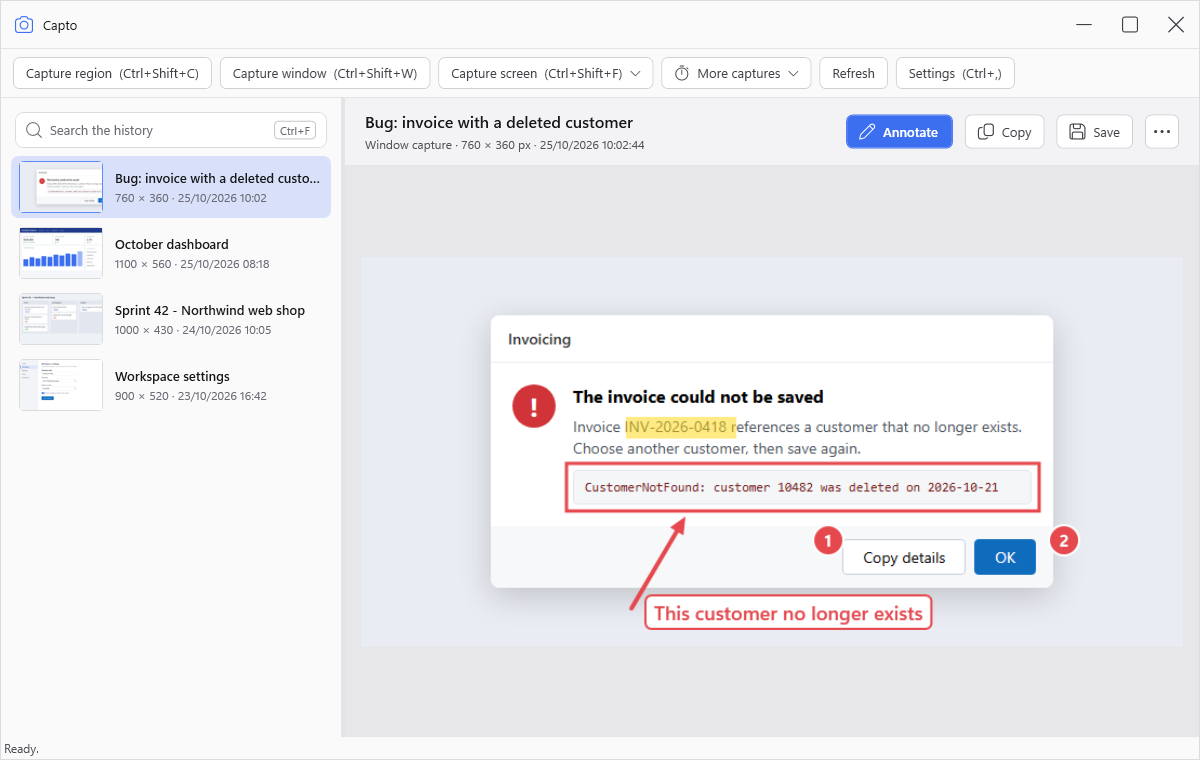
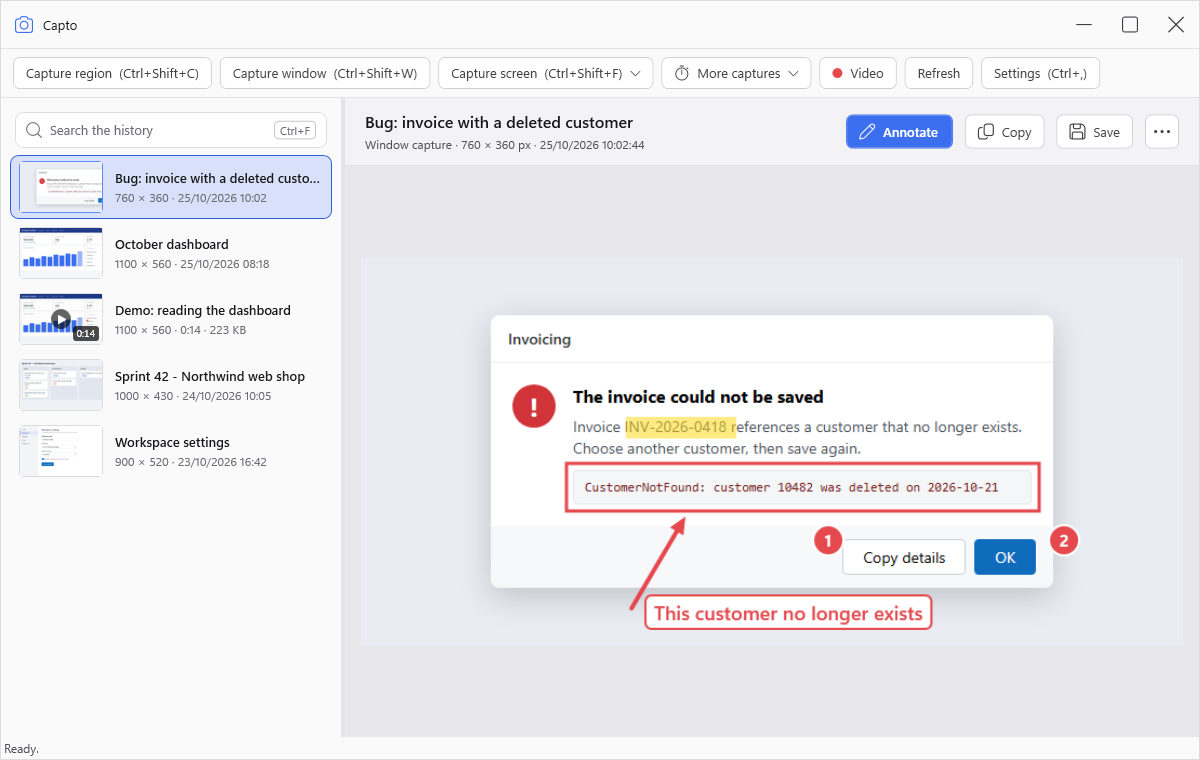
docs(readme): 📝 Document the video recording, trim and GIF export of Capto 1.2.0
Adds the recording, sound, trim and GIF export sections in English and
French, the new settings, shortcuts, data folder and troubleshooting
entries, and retakes the screenshots whose screens changed.

diff --git a/README.fr.md b/README.fr.md
@@ -2,11 +2,11 @@
 
 [English](README.md) · **Français**
 
-Capto est un outil de capture d'écran pour Windows 10 et 11 : capturez une zone, une fenêtre ou un écran depuis n'importe quelle application, annotez-la, puis collez-la, enregistrez-la ou retrouvez-la plus tard dans l'historique.
+Capto est un outil de capture d'écran pour Windows 10 et 11 : capturez une zone, une fenêtre ou un écran depuis n'importe quelle application, annotez-la, puis collez-la, enregistrez-la ou retrouvez-la plus tard dans l'historique. Il enregistre aussi l'écran en vidéo, avec le son, que vous pouvez couper ou transformer en GIF animé.
 
 - **À une touche de distance.** Les raccourcis fonctionnent depuis n'importe quelle application ; Capto attend dans la zone de notification.
 - **Prêt à coller.** Par défaut, chaque capture est dans le presse-papiers dès qu'elle est prise.
-- **Rien ne se perd.** Chaque capture est gardée dans un historique avec recherche, annotations comprises.
+- **Rien ne se perd.** Chaque capture et chaque vidéo sont gardées dans un historique avec recherche, annotations comprises.
 - **Tout reste sur votre PC.** Pas de compte, pas de cloud, pas de télémétrie. Le seul accès réseau est la recherche de mises à jour sur ce dépôt.
 
 ![La fenêtre principale de Capto : les boutons de capture, l'historique et une capture annotée](docs/images/fr/main.png)
@@ -18,8 +18,10 @@ Ce dépôt contient les installeurs, les paquets de mise à jour et les notes de
 - [Installation](#installation)
 - [Prise en main](#prise-en-main)
 - [Capturer](#capturer)
+- [Enregistrer une vidéo](#enregistrer-une-vidéo)
 - [L'historique](#lhistorique)
 - [L'éditeur d'annotations](#léditeur-dannotations)
+- [Couper une vidéo et exporter un GIF](#couper-une-vidéo-et-exporter-un-gif)
 - [Paramètres](#paramètres)
 - [Raccourcis clavier](#raccourcis-clavier)
 - [Mises à jour](#mises-à-jour)
@@ -67,7 +69,7 @@ Les mêmes commandes sont dans la barre de la fenêtre principale (les moins cou
 Au lancement d'une capture de zone ou de fenêtre, l'écran se fige : ce que vous sélectionnez est exactement ce qui était affiché au moment du raccourci, même si un menu ou une infobulle se ferme entre-temps.
 
 - **Zone :** faites glisser la souris pour tracer le rectangle ; sa taille en pixels s'affiche à côté.
-- **Fenêtre :** survolez une fenêtre pour la mettre en évidence, puis cliquez. **Tab** passe à la fenêtre suivante, pratique pour les fenêtres cachées derrière d'autres.
+- **Fenêtre :** survolez une fenêtre pour la mettre en évidence, puis cliquez. **Tab** passe à la fenêtre suivante, pratique pour les fenêtres cachées derrière d'autres. La fenêtre est capturée seule, même là où d'autres fenêtres la recouvrent.
 - **W** passe en sélection de fenêtre, **R** revient à la sélection de zone.
 - **Échap** annule.
 
@@ -94,20 +96,38 @@ Une capture différée affiche un petit compte à rebours dans un coin de l'écr
 
 Par défaut, la capture est copiée dans le presse-papiers et ajoutée à l'historique. Selon les paramètres, Capto peut aussi jouer un son, ouvrir l'éditeur, afficher une notification (seulement quand la fenêtre principale est masquée) et dessiner le pointeur de la souris dans l'image.
 
+## Enregistrer une vidéo
+
+Capto enregistre une zone, une fenêtre ou un écran entier dans une vidéo MP4 (H.264), avec le son de l'ordinateur et, si vous le voulez, votre microphone.
+
+1. Appuyez sur **Ctrl+Maj+Alt+R**, cliquez sur **Vidéo** dans la barre de la fenêtre principale, ou choisissez **Enregistrer une vidéo** dans le menu de l'icône.
+2. Choisissez quoi enregistrer, comme pour une capture : tracez une zone, cliquez sur une fenêtre, ou appuyez sur **S** et cliquez sur un écran. **W** et **R** passent en sélection de fenêtre et de zone, et les formats de zone fonctionnent aussi.
+3. Un compte à rebours de 3 secondes démarre, puis l'enregistrement.
+4. Appuyez de nouveau sur **Ctrl+Maj+Alt+R**, ou cliquez sur **Arrêter** dans la barre d'enregistrement : la vidéo est ajoutée à l'historique.
+
+Pendant la sélection, les pastilles en haut de l'écran indiquent les sons qui seront enregistrés : **A** active ou coupe le son système, **M** le microphone, pour cet enregistrement seulement.
+
+Pendant l'enregistrement, une petite barre affiche le temps écoulé, avec **Suspendre** / **Reprendre**, **Arrêter**, un bouton pour abandonner l'enregistrement, et un bouton pour couper chaque source de son avec son vumètre. Déplacez-la par sa poignée. Ni la barre ni le cadre autour de la zone enregistrée n'apparaissent dans la vidéo. Les mêmes commandes sont dans le menu de l'icône.
+
+- Une vidéo de fenêtre suit la fenêtre quand vous la déplacez, mais les menus et les infobulles n'y apparaissent pas : enregistrez une zone pour les montrer.
+- L'enregistrement s'arrête seul, en gardant la vidéo, quand il atteint la durée maximale (60 minutes par défaut), quand la fenêtre enregistrée se ferme ou quand le disque est presque plein.
+- Si Capto ou Windows s'arrête pendant un enregistrement, la vidéo est récupérée au démarrage suivant.
+- L'enregistrement vidéo demande Windows 10 version 2004 ou plus récent. Sur une édition N de Windows, installez d'abord le Media Feature Pack.
+
 ## L'historique
 
-Chaque capture est gardée dans l'historique de la fenêtre principale, la plus récente en haut.
+Chaque capture et chaque vidéo sont gardées dans l'historique de la fenêtre principale, la plus récente en haut. Sélectionnez une vidéo pour la lire dans le panneau de détail (**Espace** lance et met en pause) ; ses détails indiquent sa durée, sa taille et les sons enregistrés.
 
 - **Rechercher** (**Ctrl+F**) par nom, titre de fenêtre ou date.
-- **Copier** (**Ctrl+C**) remet la capture, avec ses annotations, dans le presse-papiers.
-- **Enregistrer** (**Ctrl+S**) l'écrit dans le dossier d'export par défaut, **Enregistrer sous** (**Ctrl+Maj+S**) demande où ; en PNG ou JPEG.
+- **Copier** (**Ctrl+C**) remet la capture, avec ses annotations, dans le presse-papiers. Pour une vidéo, il copie le fichier, prêt à coller dans un dossier ou une conversation.
+- **Enregistrer** (**Ctrl+S**) l'écrit dans le dossier d'export par défaut, **Enregistrer sous** (**Ctrl+Maj+S**) demande où ; en PNG ou JPEG pour une capture, en MP4 pour une vidéo.
 - **Faites glisser** une capture de l'historique vers une autre application (un e-mail, une messagerie, un dossier) pour y déposer l'image.
 - **Annoter** (**Entrée**) ouvre l'éditeur.
 - **Renommer** (**F2**) donne à la capture un nom que la recherche retrouve.
 - **Ouvrir le fichier** et **Afficher dans le dossier** donnent accès au fichier image.
 - **Supprimer** (**Suppr**) envoie la capture dans la Corbeille de Windows, d'où elle peut être restaurée. Plusieurs captures peuvent être sélectionnées et supprimées d'un coup.
 
-L'historique peut se nettoyer tout seul : dans **Paramètres › Stockage**, indiquez combien de jours garder les captures et combien en garder au maximum (0 = sans limite). Les plus anciennes partent à la Corbeille.
+L'historique peut se nettoyer tout seul : dans **Paramètres › Stockage**, indiquez combien de jours garder les captures et combien en garder au maximum (0 = sans limite). Les plus anciennes partent à la Corbeille. Les vidéos ont leur propre limite, une taille totale réglée dans **Paramètres › Enregistrement** (20 Go par défaut).
 
 ## L'éditeur d'annotations
 
@@ -132,6 +152,21 @@ Ouvrez-le avec **Annoter** (ou **Entrée**) sur une capture, ou automatiquement 
 - Zoomez avec **Ctrl+-** / **Ctrl++**, **Ctrl+0** ajuste l'image à la fenêtre, **Ctrl+1** l'affiche en taille réelle.
 - Les annotations restent modifiables : l'image d'origine n'est jamais modifiée, et le recadrage comme la découpe peuvent être annulés à tout moment. Les copies, les fichiers enregistrés et les glisser-déposer contiennent toujours l'image annotée, avec le flou appliqué définitivement.
 
+## Couper une vidéo et exporter un GIF
+
+Sélectionnez une vidéo dans l'historique, puis cliquez sur **Couper** pour n'en garder qu'une partie. Une frise d'images montre la vidéo, avec une poignée pour le début et une pour la fin de l'extrait.
+
+<img src="docs/images/fr/trim.png" width="720" alt="Le mode coupe : la vidéo, la frise d'images avec l'extrait choisi encadré en orange, le début, la fin et la durée de l'extrait">
+
+- Faites glisser les poignées, ou avancez image par image avec **←** / **→** (**Maj** saute d'une seconde) et placez le début et la fin sur l'image courante avec **I** / **O**. **Origine** / **Fin** vont au début et à la fin.
+- **Espace** lit l'extrait. En pause, l'image affichée est exactement celle où passera la coupe.
+- **Couper** (**Entrée**) crée l'extrait comme un nouvel élément de l'historique, coupé à l'image près, avec son son. L'original reste intact, sauf si vous cochez **Mettre l'original à la Corbeille**.
+- **Exporter en MP4…** demande où enregistrer l'extrait dans un fichier, sans l'ajouter à l'historique. **Échap** quitte sans couper.
+
+**Exporter en GIF**, sur une vidéo ou depuis le mode coupe pour l'extrait choisi, crée un GIF animé : 10, 15 ou 20 images par seconde (15 par défaut), une largeur de 640, 800 (par défaut) ou 1280 pixels ou la taille originale, une palette par image ou globale, la lecture en boucle et le tramage. La taille estimée se met à jour quand vous changez les options. **Copier aussi le fichier** met le GIF dans le presse-papiers, pour le coller dans Teams, Slack ou Outlook. **Exporter** l'écrit dans le dossier d'export par défaut, **Enregistrer sous…** demande où. Un GIF dure au plus 60 secondes : pour une vidéo plus longue, Capto ouvre le mode coupe sur sa première minute pour que vous choisissiez l'extrait.
+
+<img src="docs/images/fr/gif-export.png" width="460" alt="La fenêtre Exporter en GIF : images par seconde, largeur, palette, boucle, tramage, copie du fichier et taille estimée">
+
 ## Paramètres
 
 Ouvrez-les avec **Ctrl+,** dans la fenêtre principale ou depuis le menu de l'icône. Les changements s'appliquent quand vous cliquez sur **Enregistrer**.
@@ -144,7 +179,7 @@ Démarrer avec Windows, démarrer réduit, fermer dans la zone de notification, 
 
 ### Capture
 
-Copier dans le presse-papiers, copier aussi le fichier (pratique pour les pièces jointes Outlook), ouvrir l'éditeur après la capture, jouer un son, inclure le curseur, délai des captures différées.
+Copier dans le presse-papiers, copier aussi le fichier (pratique pour les pièces jointes Outlook), ouvrir l'éditeur après la capture, jouer un son, inclure le curseur, délai des captures différées, et le moteur de capture : Capto utilise Windows Graphics Capture, qui capture aussi les fenêtres masquées ; **Utiliser le moteur de capture GDI** revient à l'ancien moteur, à essayer si des captures sont noires ou incomplètes. **À propos de Capto** indique le moteur utilisé.
 
 <img src="docs/images/fr/settings-capture.png" width="620" alt="Paramètres de capture">
 
@@ -154,6 +189,14 @@ Les formats intégrés, avec la touche chiffrée qui choisit chacun pendant une 
 
 <img src="docs/images/fr/settings-formats.png" width="620" alt="Paramètres des formats de zone">
 
+### Enregistrement
+
+Images par seconde (15, 30 ou 60 ; 30 par défaut), qualité (basse, standard ou haute), inclure le curseur, mettre en évidence les clics par un anneau jaune, compte à rebours de 3 secondes, durée maximale (60 minutes par défaut), taille maximale totale des vidéos (20 Go par défaut ; au-delà, les plus anciennes partent à la Corbeille) et dossier des vidéos. La page indique aussi si un encodeur matériel (GPU) est disponible ; sans lui, l'encodage logiciel peut manquer des images en haute résolution.
+
+**Son :** le son système (ce que joue l'ordinateur) est enregistré par défaut ; le microphone est désactivé par défaut et n'est ouvert que pendant un enregistrement. Choisissez les périphériques de sortie et d'entrée (celui de Windows par défaut, sauf si vous en choisissez un) et le gain de chaque source. Avec des haut-parleurs, le micro capte aussi le son système : préférez un casque.
+
+<img src="docs/images/fr/settings-recording.png" width="620" alt="Paramètres d'enregistrement">
+
 ### Stockage
 
 Dossier de l'historique, durée de conservation, dossier d'export par défaut, modèle de nom de fichier, format (PNG ou JPEG) et qualité JPEG. Le modèle de nom accepte `{date}`, `{time}`, `{kind}`, `{width}`, `{height}` et `{index}` ; par défaut, `Capto_{date}_{time}`.
@@ -162,7 +205,7 @@ Dossier de l'historique, durée de conservation, dossier d'export par défaut, m
 
 ### Raccourcis
 
-Cliquez sur un raccourci, puis appuyez sur la nouvelle combinaison ; **Retour arrière** efface les raccourcis facultatifs (zone différée, répéter la dernière zone).
+Cliquez sur un raccourci, puis appuyez sur la nouvelle combinaison ; **Retour arrière** efface les raccourcis facultatifs (zone différée, répéter la dernière zone, suspendre un enregistrement).
 
 <img src="docs/images/fr/settings-hotkeys.png" width="620" alt="Paramètres des raccourcis">
 
@@ -178,12 +221,16 @@ Cliquez sur un raccourci, puis appuyez sur la nouvelle combinaison ; **Retour ar
 | Ctrl+Maj+Alt+F | Capturer tous les écrans |
 | Ctrl+Maj+Alt+C | Répéter la dernière zone |
 | Ctrl+Maj+D | Capture de zone différée |
+| Ctrl+Maj+Alt+R | Démarrer ou arrêter un enregistrement |
+| (aucun par défaut) | Suspendre ou reprendre un enregistrement |
 
-**Pendant une sélection :** Échap annule, W / R passent de la fenêtre à la zone, Tab passe à la fenêtre suivante, C change de format de zone, 0 à 9 choisissent un format.
+**Pendant une sélection :** Échap annule, W / R passent de la fenêtre à la zone, Tab passe à la fenêtre suivante, C change de format de zone, 0 à 9 choisissent un format. Pour une vidéo, aussi S pour un écran entier, A pour le son système et M pour le microphone.
 
-**Dans la fenêtre principale :** Ctrl+F rechercher, Ctrl+C copier, Ctrl+S enregistrer, Ctrl+Maj+S enregistrer sous, Entrée annoter, F2 renommer, Suppr supprimer, Ctrl+, paramètres.
+**Dans la fenêtre principale :** Ctrl+F rechercher, Ctrl+C copier, Ctrl+S enregistrer, Ctrl+Maj+S enregistrer sous, Entrée annoter, F2 renommer, Suppr supprimer, Ctrl+, paramètres. Sur une vidéo, Espace lance et met en pause.
 
 **Dans l'éditeur :** V A R T N H B C X pour les outils, Ctrl+Z annuler, Ctrl+Y rétablir, Ctrl+S enregistrer, Ctrl+C copier, Ctrl+Entrée copier et fermer, Ctrl+D dupliquer, Suppr supprimer, Ctrl+0 ajuster, Ctrl+1 taille réelle.
+
+**Pour couper une vidéo :** ← / → une image (Maj : une seconde), I / O placent le début / la fin, Origine / Fin vont au début / à la fin, Espace lit l'extrait, Entrée coupe, Échap quitte.
 
 ## Mises à jour
 
@@ -196,6 +243,7 @@ Les changements de chaque version sont listés dans ses [notes de version](https
 | Quoi | Où |
 |---|---|
 | Captures et annotations | `%LocalAppData%\Capto\captures` (modifiable dans **Paramètres › Stockage**) |
+| Vidéos | le dossier `recordings` dans le dossier des captures |
 | Paramètres | `%AppData%\Capto\settings.json` |
 | Dernière zone et autres états propres à ce PC | `%LocalAppData%\Capto\state.json` |
 | Images enregistrées et exportées | `Images\Capto` par défaut |
@@ -210,6 +258,10 @@ Désinstallez Capto depuis **Paramètres Windows › Applications › Applicatio
 - **Un raccourci ne fait rien :** une autre application l'utilise déjà, et Capto le signale dans sa barre d'état au démarrage. Choisissez une autre combinaison dans **Paramètres › Raccourcis**.
 - **La capture n'est pas dans le presse-papiers :** vérifiez **Copier dans le presse-papiers** dans **Paramètres › Capture** ; la capture est de toute façon dans l'historique.
 - **Word insère un lien au lieu de l'image :** désactivez **Copier aussi le fichier** dans **Paramètres › Capture**.
+- **Une capture est noire ou incomplète :** activez **Utiliser le moteur de capture GDI** dans **Paramètres › Capture**.
+- **Aucun encodeur vidéo H.264 n'est disponible :** sur une édition N de Windows, installez le Media Feature Pack depuis **Paramètres Windows › Applications › Fonctionnalités facultatives**.
+- **Windows bloque le microphone :** autorisez les applications de bureau à utiliser le microphone dans **Paramètres Windows › Confidentialité et sécurité › Microphone** ; Capto propose d'ouvrir cette page, ou d'enregistrer sans le microphone.
+- **Le micro sonne comme un appel téléphonique :** un casque Bluetooth passe en qualité téléphone quand son micro est utilisé ; prenez un micro filaire ou enregistrez sans.
 
 ---
 

diff --git a/README.md b/README.md
@@ -2,11 +2,11 @@
 
 **English** · [Français](README.fr.md)
 
-Capto is a screen-capture tool for Windows 10 and 11: grab a region, a window or a screen from any application, annotate it, then paste, save or find it again later in the history.
+Capto is a screen-capture tool for Windows 10 and 11: grab a region, a window or a screen from any application, annotate it, then paste, save or find it again later in the history. It also records the screen as a video, with sound, that you can trim or turn into an animated GIF.
 
 - **One keystroke away.** Global shortcuts work from any application; Capto waits in the notification area.
 - **Paste right away.** By default, every capture is in the clipboard as soon as it is taken.
-- **Nothing is lost.** Every capture is kept in a searchable history, with its annotations.
+- **Nothing is lost.** Every capture and every video is kept in a searchable history, with its annotations.
 - **Everything stays on your PC.** No account, no cloud, no telemetry. The only network access is the update check against this repository.
 
 ![The Capto main window: the capture buttons, the history and an annotated capture](docs/images/en/main.png)
@@ -18,8 +18,10 @@ This repository holds the installers, the update packages and the release notes 
 - [Install](#install)
 - [Getting started](#getting-started)
 - [Capturing](#capturing)
+- [Recording a video](#recording-a-video)
 - [The history](#the-history)
 - [The annotation editor](#the-annotation-editor)
+- [Trimming a video and exporting a GIF](#trimming-a-video-and-exporting-a-gif)
 - [Settings](#settings)
 - [Keyboard shortcuts](#keyboard-shortcuts)
 - [Updates](#updates)
@@ -67,7 +69,7 @@ The same commands are in the toolbar of the main window (the less common ones un
 When you start a region or window capture, the screen freezes: what you select is exactly what was on screen when you pressed the shortcut, even if a menu or a tooltip closes in the meantime.
 
 - **Region:** drag to draw the rectangle; its size in pixels is shown next to it.
-- **Window:** hover a window to highlight it, then click. **Tab** moves to the next window, which helps with windows hidden behind others.
+- **Window:** hover a window to highlight it, then click. **Tab** moves to the next window, which helps with windows hidden behind others. The window is captured on its own, even where other windows cover it.
 - **W** switches to window selection, **R** back to region selection.
 - **Esc** cancels.
 
@@ -97,20 +99,38 @@ A delayed capture shows a small countdown in a corner of the screen (3, 5 or 10 
 
 By default the capture is copied to the clipboard and added to the history. Depending on the settings, Capto can also play a sound, open the editor, show a notification (only while the main window is hidden) and draw the mouse pointer into the image.
 
+## Recording a video
+
+Capto records a region, a window or a whole screen to an MP4 video (H.264), with the sound of the computer and, if you want, your microphone.
+
+1. Press **Ctrl+Shift+Alt+R**, click **Video** in the toolbar of the main window, or choose **Record a video** in the notification-area menu.
+2. Select what to record, as for a capture: drag a region, click a window, or press **S** and click a screen. **W** and **R** switch to window and region selection, and the region formats work too.
+3. A 3-second countdown starts, then the recording.
+4. Press **Ctrl+Shift+Alt+R** again, or click **Stop** in the recording toolbar: the video is added to the history.
+
+While selecting, the chips at the top of the screen show which sounds will be recorded: **A** turns the system sound on or off, **M** the microphone, for this recording only.
+
+During the recording, a small toolbar shows the elapsed time, with **Pause** / **Resume**, **Stop**, a button to discard the recording, and a button to mute each sound source with its level meter. Drag it by its grip to move it. Neither the toolbar nor the frame around the recorded area appears in the video. The same commands are in the notification-area menu.
+
+- A window video follows the window when you move it, but menus and tooltips do not appear in it: record a region to show them.
+- The recording stops by itself, and keeps the video, when it reaches the maximum duration (60 minutes by default), when the recorded window closes or when the disk is almost full.
+- If Capto or Windows stops during a recording, the video is recovered at the next start.
+- Video recording needs Windows 10 version 2004 or later. On an N edition of Windows, install the Media Feature Pack first.
+
 ## The history
 
-Every capture is kept in the history of the main window, newest first.
+Every capture and every video is kept in the history of the main window, newest first. Select a video to play it in the detail pane (**Space** plays and pauses); its details show its length, size and recorded sounds.
 
 - **Search** (**Ctrl+F**) by name, window title or date.
-- **Copy** (**Ctrl+C**) puts the capture, with its annotations, back in the clipboard.
-- **Save** (**Ctrl+S**) writes it to the default export folder, **Save as** (**Ctrl+Shift+S**) asks where; PNG or JPEG.
+- **Copy** (**Ctrl+C**) puts the capture, with its annotations, back in the clipboard. For a video, it copies the file, ready to paste into a folder or a chat.
+- **Save** (**Ctrl+S**) writes it to the default export folder, **Save as** (**Ctrl+Shift+S**) asks where; PNG or JPEG for a capture, MP4 for a video.
 - **Drag** a capture from the history into another application (an email, a chat, a folder) to drop the image there.
 - **Annotate** (**Enter**) opens the editor.
 - **Rename** (**F2**) gives the capture a name that the search finds.
 - **Open file** and **Show in folder** give access to the image file.
 - **Delete** (**Del**) moves the capture to the Windows Recycle Bin, from which it can be restored. Several captures can be selected and deleted at once.
 
-The history can clean itself up: in **Settings › Storage**, set how many days to keep the captures and how many captures to keep at most (0 means no limit). Older captures go to the Recycle Bin.
+The history can clean itself up: in **Settings › Storage**, set how many days to keep the captures and how many captures to keep at most (0 means no limit). Older captures go to the Recycle Bin. Videos have their own limit, a total size set in **Settings › Recording** (20 GB by default).
 
 ## The annotation editor
 
@@ -135,6 +155,21 @@ Open it with **Annotate** (or **Enter**) on a capture, or automatically after ev
 - Zoom with **Ctrl+-** / **Ctrl++**, **Ctrl+0** fits the image to the window, **Ctrl+1** shows it at actual size.
 - Annotations stay editable: the original image is never modified, and crop and cut-out can be reset at any time. Copies, saved files and drags always contain the annotated image, and the blur is applied for good in them.
 
+## Trimming a video and exporting a GIF
+
+Select a video in the history, then click **Trim** to keep only part of it. A strip of frames shows the video, with a handle for the start and one for the end of the clip.
+
+<img src="docs/images/en/trim.png" width="720" alt="Trim mode: the video, the strip of frames with the chosen clip framed in orange, the start, end and length of the clip">
+
+- Drag the handles, or move frame by frame with **←** / **→** (**Shift** jumps one second) and set the start and the end at the current frame with **I** / **O**. **Home** / **End** go to the start and the end.
+- **Space** plays the clip. While paused, the picture is exactly the frame that will be cut.
+- **Trim** (**Enter**) creates the clip as a new item of the history, cut to the exact frame, with its sound. The original stays as it is, unless you tick **Move the original to the Recycle Bin**.
+- **Export as MP4…** asks where to save the clip as a file, without adding it to the history. **Esc** leaves without trimming.
+
+**Export as GIF**, on a video or from the trim mode for the chosen clip, makes an animated GIF: 10, 15 or 20 frames per second (15 by default), a width of 640, 800 (default) or 1280 pixels or the original size, a palette per frame or global, looping and dithering. The estimated size updates as you change the options. **Also copy the file** puts the GIF in the clipboard, to paste into Teams, Slack or Outlook. **Export** writes it to the default export folder, **Save as…** asks where. A GIF lasts at most 60 seconds: for a longer video, Capto opens the trim mode on its first minute so you can choose the clip.
+
+<img src="docs/images/en/gif-export.png" width="460" alt="The Export as GIF dialog: frames per second, width, palette, loop, dithering, copy the file and the estimated size">
+
 ## Settings
 
 Open them with **Ctrl+,** in the main window or from the notification-area menu. Changes apply when you click **Save**.
@@ -147,7 +182,7 @@ Start with Windows, start minimized, close to the notification area, notificatio
 
 ### Capture
 
-Copy to the clipboard, also copy the file (useful for Outlook attachments), open the editor after the capture, play a sound, include the mouse pointer, delay of delayed captures.
+Copy to the clipboard, also copy the file (useful for Outlook attachments), open the editor after the capture, play a sound, include the mouse pointer, delay of delayed captures, and the capture engine: Capto uses Windows Graphics Capture, which also captures covered windows; **Use the GDI capture engine** switches to the older engine, to try if captures come out black or incomplete. **About Capto** shows the engine in use.
 
 <img src="docs/images/en/settings-capture.png" width="620" alt="Capture settings">
 
@@ -157,6 +192,14 @@ The built-in formats, with the number key that picks each one during a selection
 
 <img src="docs/images/en/settings-formats.png" width="620" alt="Region format settings">
 
+### Recording
+
+Frames per second (15, 30 or 60; 30 by default), quality (low, standard or high), include the cursor, highlight mouse clicks with a yellow ring, 3-second countdown, maximum duration (60 minutes by default), maximum total size of the videos (20 GB by default; beyond it, the oldest go to the Recycle Bin) and the videos folder. The page also says whether a hardware (GPU) encoder is available; without one, the software encoder may miss frames at high resolutions.
+
+**Sound:** the system sound (what the computer plays) is recorded by default, the microphone is off by default and only opened during a recording. Choose the output and input devices (the Windows default unless you pick one) and the gain of each source. With speakers, the microphone also picks up the system sound: use a headset.
+
+<img src="docs/images/en/settings-recording.png" width="620" alt="Recording settings">
+
 ### Storage
 
 History folder, retention, default export folder, file-name pattern, format (PNG or JPEG) and JPEG quality. The file-name pattern accepts `{date}`, `{time}`, `{kind}`, `{width}`, `{height}` and `{index}`; the default is `Capto_{date}_{time}`.
@@ -165,7 +208,7 @@ History folder, retention, default export folder, file-name pattern, format (PNG
 
 ### Shortcuts
 
-Click a shortcut, then press the new key combination; **Backspace** clears the optional ones (delayed region, repeat last region).
+Click a shortcut, then press the new key combination; **Backspace** clears the optional ones (delayed region, repeat last region, pause a recording).
 
 <img src="docs/images/en/settings-hotkeys.png" width="620" alt="Shortcut settings">
 
@@ -181,12 +224,16 @@ Click a shortcut, then press the new key combination; **Backspace** clears the o
 | Ctrl+Shift+Alt+F | Capture all screens |
 | Ctrl+Shift+Alt+C | Repeat last region |
 | Ctrl+Shift+D | Delayed region capture |
+| Ctrl+Shift+Alt+R | Start or stop a recording |
+| (none by default) | Pause or resume a recording |
 
-**During a selection:** Esc cancels, W / R switch between window and region, Tab moves to the next window, C changes the region format, 0 to 9 pick a format.
+**During a selection:** Esc cancels, W / R switch between window and region, Tab moves to the next window, C changes the region format, 0 to 9 pick a format. For a video, also S for a whole screen, A for the system sound and M for the microphone.
 
-**In the main window:** Ctrl+F search, Ctrl+C copy, Ctrl+S save, Ctrl+Shift+S save as, Enter annotate, F2 rename, Del delete, Ctrl+, settings.
+**In the main window:** Ctrl+F search, Ctrl+C copy, Ctrl+S save, Ctrl+Shift+S save as, Enter annotate, F2 rename, Del delete, Ctrl+, settings. On a video, Space plays and pauses.
 
 **In the editor:** V A R T N H B C X tools, Ctrl+Z undo, Ctrl+Y redo, Ctrl+S save, Ctrl+C copy, Ctrl+Enter copy and close, Ctrl+D duplicate, Del delete, Ctrl+0 fit, Ctrl+1 actual size.
+
+**When trimming a video:** ← / → one frame (Shift: one second), I / O set the start / end, Home / End go to the start / end, Space plays the clip, Enter trims, Esc leaves.
 
 ## Updates
 
@@ -199,6 +246,7 @@ The changes of each version are listed in its [release notes](https://github.com
 | What | Where |
 |---|---|
 | Captures and their annotations | `%LocalAppData%\Capto\captures` (can be changed in **Settings › Storage**) |
+| Videos | the `recordings` folder inside the captures folder |
 | Settings | `%AppData%\Capto\settings.json` |
 | Last region and other state of this PC | `%LocalAppData%\Capto\state.json` |
 | Saved and exported images | `Pictures\Capto` by default |
@@ -213,6 +261,10 @@ Uninstall Capto from **Windows Settings › Apps › Installed apps**. Your capt
 - **A shortcut does nothing:** another application already uses it, and Capto says so in its status bar at startup. Choose another combination in **Settings › Shortcuts**.
 - **The capture is not in the clipboard:** check **Copy to the clipboard** in **Settings › Capture**; the capture is in the history anyway.
 - **Word inserts a link instead of the image:** turn off **Also copy the file** in **Settings › Capture**.
+- **A capture is black or incomplete:** turn on **Use the GDI capture engine** in **Settings › Capture**.
+- **No H.264 video encoder is available:** on an N edition of Windows, install the Media Feature Pack from **Windows Settings › Apps › Optional features**.
+- **Windows blocks the microphone:** allow desktop apps to use the microphone in **Windows Settings › Privacy & security › Microphone**; Capto offers to open that page, or to record without the microphone.
+- **The microphone sounds like a phone call:** a Bluetooth headset switches to phone quality while its microphone is in use; use a wired microphone or record without it.
 
 ---
 
